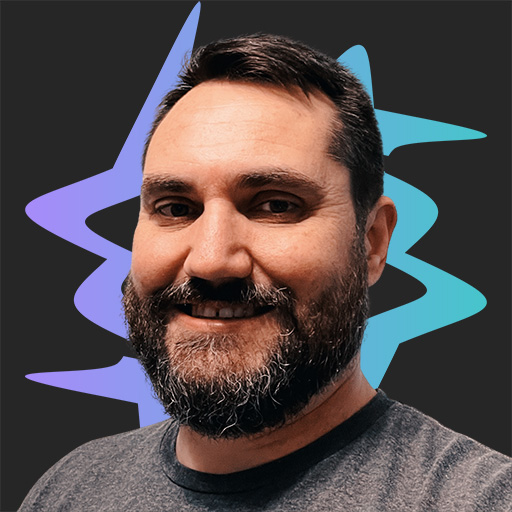
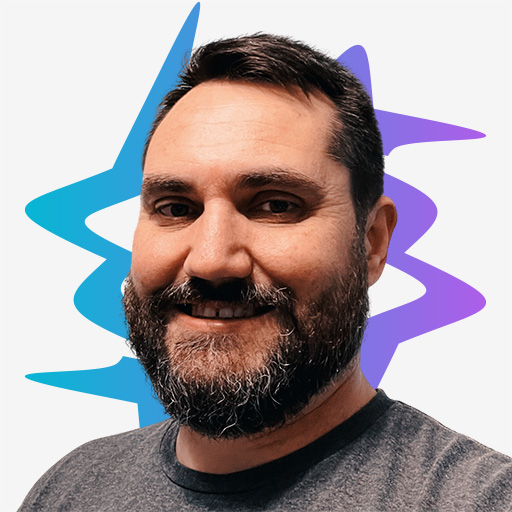
feat: use cyan and violet colors

diff --git a/apps/personal/components/Header.tsx b/apps/personal/components/Header.tsx
@@ -6,6 +6,7 @@ import clsx from 'clsx';
 
 import { Container } from '@/components/Container';
 import avatarImage from '@/images/avatar.jpg';
+import avatarDarkImage from '@/images/avatar-dark.jpg';
 import { CSSProperties, Fragment, useEffect, useRef } from 'react';
 
 function CloseIcon(props) {
@@ -145,13 +146,13 @@ function NavItem({ href, children }) {
         className={clsx(
           'relative block px-3 py-2 transition',
           isActive
-            ? 'text-teal-500 dark:text-teal-400'
-            : 'hover:text-teal-500 dark:hover:text-teal-400'
+            ? 'text-cyan-500 dark:text-violet-400'
+            : 'hover:text-cyan-500 dark:hover:text-violet-400'
         )}
       >
         {children}
         {isActive && (
-          <span className="absolute inset-x-1 -bottom-px h-px bg-gradient-to-r from-teal-500/0 via-teal-500/40 to-teal-500/0 dark:from-teal-400/0 dark:via-teal-400/40 dark:to-teal-400/0" />
+          <span className="absolute inset-x-1 -bottom-px h-px bg-gradient-to-r from-cyan-500/0 via-cyan-500/40 to-cyan-500/0 dark:from-violet-400/0 dark:via-violet-400/40 dark:to-violet-400/0" />
         )}
       </Link>
     </li>
@@ -203,8 +204,8 @@ function ModeToggle() {
       className="group rounded-full bg-white/90 px-3 py-2 shadow-lg shadow-zinc-800/5 ring-1 ring-zinc-900/5 backdrop-blur transition dark:bg-zinc-800/90 dark:ring-white/10 dark:hover:ring-white/20"
       onClick={toggleMode}
     >
-      <SunIcon className="h-6 w-6 fill-zinc-100 stroke-zinc-500 transition group-hover:fill-zinc-200 group-hover:stroke-zinc-700 dark:hidden [@media(prefers-color-scheme:dark)]:fill-teal-50 [@media(prefers-color-scheme:dark)]:stroke-teal-500 [@media(prefers-color-scheme:dark)]:group-hover:fill-teal-50 [@media(prefers-color-scheme:dark)]:group-hover:stroke-teal-600" />
-      <MoonIcon className="hidden h-6 w-6 fill-zinc-700 stroke-zinc-500 transition dark:block [@media(prefers-color-scheme:dark)]:group-hover:stroke-zinc-400 [@media_not_(prefers-color-scheme:dark)]:fill-teal-400/10 [@media_not_(prefers-color-scheme:dark)]:stroke-teal-500" />
+      <SunIcon className="h-6 w-6 fill-zinc-100 stroke-zinc-500 transition group-hover:fill-zinc-200 group-hover:stroke-zinc-700 dark:hidden [@media(prefers-color-scheme:dark)]:fill-cyan-50 [@media(prefers-color-scheme:dark)]:stroke-cyan-500 [@media(prefers-color-scheme:dark)]:group-hover:fill-cyan-50 [@media(prefers-color-scheme:dark)]:group-hover:stroke-cyan-600" />
+      <MoonIcon className="hidden h-6 w-6 fill-zinc-700 stroke-zinc-500 transition dark:block [@media(prefers-color-scheme:dark)]:group-hover:stroke-zinc-400 [@media_not_(prefers-color-scheme:dark)]:fill-violet-400/10 [@media_not_(prefers-color-scheme:dark)]:stroke-violet-500" />
     </button>
   );
 }
@@ -260,7 +261,17 @@ function Avatar({
         alt=""
         sizes={large ? '4rem' : '2.25rem'}
         className={clsx(
-          'rounded-full bg-zinc-100 object-cover dark:bg-zinc-800',
+          'rounded-full bg-zinc-100 object-cover dark:hidden dark:bg-zinc-800',
+          large ? 'h-16 w-16' : 'h-9 w-9'
+        )}
+        priority
+      />
+      <Image
+        src={avatarDarkImage}
+        alt=""
+        sizes={large ? '4rem' : '2.25rem'}
+        className={clsx(
+          'hidden rounded-full bg-zinc-100 object-cover dark:block dark:bg-zinc-800',
           large ? 'h-16 w-16' : 'h-9 w-9'
         )}
         priority

diff --git a/apps/personal/pages/index.tsx b/apps/personal/pages/index.tsx
@@ -124,7 +124,7 @@ function Newsletter() {
           placeholder="Email address"
           aria-label="Email address"
           required
-          className="min-w-0 flex-auto appearance-none rounded-md border border-zinc-900/10 bg-white px-3 py-[calc(theme(spacing.2)-1px)] shadow-md shadow-zinc-800/5 placeholder:text-zinc-400 focus:border-teal-500 focus:outline-none focus:ring-4 focus:ring-teal-500/10 dark:border-zinc-700 dark:bg-zinc-700/[0.15] dark:text-zinc-200 dark:placeholder:text-zinc-500 dark:focus:border-teal-400 dark:focus:ring-teal-400/10 sm:text-sm"
+          className="min-w-0 flex-auto appearance-none rounded-md border border-zinc-900/10 bg-white px-3 py-[calc(theme(spacing.2)-1px)] shadow-md shadow-zinc-800/5 placeholder:text-zinc-400 focus:border-cyan-500 focus:outline-none focus:ring-4 focus:ring-cyan-500/10 dark:border-zinc-700 dark:bg-zinc-700/[0.15] dark:text-zinc-200 dark:placeholder:text-zinc-500 dark:focus:border-violet-400 dark:focus:ring-violet-400/10 sm:text-sm"
         />
         <Button type="submit" className="ml-4 flex-none">
           Join

diff --git a/apps/personal/pages/about.tsx b/apps/personal/pages/about.tsx
@@ -30,9 +30,9 @@ function SocialLink({
     <li className={clsx(className, 'flex')}>
       <Link
         href={href}
-        className="group flex text-sm font-medium text-zinc-800 transition hover:text-teal-500 dark:text-zinc-200 dark:hover:text-teal-500"
+        className="group flex text-sm font-medium text-zinc-800 transition hover:text-cyan-500 dark:text-zinc-200 dark:hover:text-violet-400"
       >
-        <Icon className="h-6 w-6 flex-none fill-zinc-500 transition group-hover:fill-teal-500" />
+        <Icon className="h-6 w-6 flex-none fill-zinc-500 transition group-hover:fill-cyan-500 dark:group-hover:fill-violet-400" />
         <span className="ml-4">{children}</span>
       </Link>
     </li>

diff --git a/apps/personal/pages/projects.tsx b/apps/personal/pages/projects.tsx
@@ -90,7 +90,7 @@ export default function Projects() {
                 <Card.Link href={project.link.href}>{project.name}</Card.Link>
               </h2>
               <Card.Description>{project.description}</Card.Description>
-              <p className="relative z-10 mt-6 flex text-sm font-medium text-zinc-400 transition group-hover:text-teal-500 dark:text-zinc-200">
+              <p className="relative z-10 mt-6 flex text-sm font-medium text-zinc-400 transition group-hover:text-cyan-500 dark:text-zinc-200 dark:group-hover:text-violet-400">
                 <LinkIcon className="h-6 w-6 flex-none" />
                 <span className="ml-2">{project.link.label}</span>
               </p>

diff --git a/apps/personal/components/Card.tsx b/apps/personal/components/Card.tsx
@@ -82,7 +82,7 @@ Card.Cta = function CardCta({ children }) {
   return (
     <div
       aria-hidden="true"
-      className="relative z-10 mt-4 flex items-center text-sm font-medium text-teal-500"
+      className="relative z-10 mt-4 flex items-center text-sm font-medium text-cyan-500 dark:text-violet-400"
     >
       {children}
       <ChevronRightIcon className="ml-1 h-4 w-4 stroke-current" />

diff --git a/apps/personal/components/Footer.tsx b/apps/personal/components/Footer.tsx
@@ -6,7 +6,7 @@ function NavLink({ href, children }) {
   return (
     <Link
       href={href}
-      className="transition hover:text-teal-500 dark:hover:text-teal-400"
+      className="transition hover:text-cyan-500 dark:hover:text-violet-400"
     >
       {children}
     </Link>
